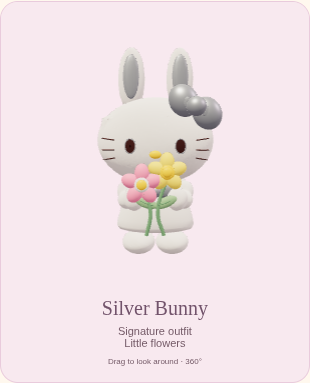
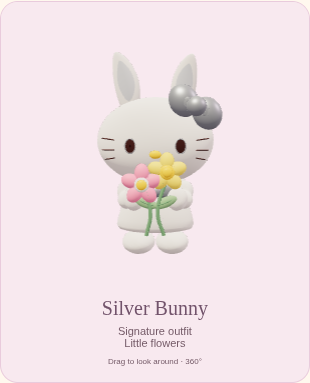
Record Silver Bunny ear review and verified Pages release

Changed region(s): [[0.3484, 0.1436, 0.4645, 0.2872], [0.5226, 0.1436, 0.6387, 0.2585]]

diff --git a/docs/production-plan.md b/docs/production-plan.md
@@ -583,7 +583,7 @@ with a source manifest, and every bundled source checksum was verified.
 No reset marker, quest, saved outfit or personal letter changed. Physical phone
 and Safari verification remain pending.
 
-## Silver Bunny ear correction · v2.0.2 (release verification)
+## Silver Bunny ear correction · v2.0.2 (published)
 
 The creator identified unnatural ears after the fleece correction. The previous
 ears were identical upright ellipsoids with separate thick metallic inserts.
@@ -605,5 +605,29 @@ topology so reduction cannot separate these surfaces.
 
 Front, profile, rear and dance Blender renders were visually inspected. The
 existing full plush browser check now also captures actual side/back rotation
-of Silver Bunny. Publication is pending the complete release gate. Physical
-phone and Mac/Safari review remain pending.
+of Silver Bunny. All 197 automated checks and all 16 browser suites passed
+before publication. Physical phone and Mac/Safari review remain pending.
+
+Local actual-input browser verification also passed all five editions’ dance,
+wink and happy restoration, shared clothes, adventure walking/reload, postcards,
+and tall-accessory baking. Silver Bunny was visually reviewed in front/profile/
+rear game views and a 320px touch/reduced-motion preview. Failed-download retry,
+late selection cancellation and the classic fallback passed with no page errors.
+
+Game candidate: `2e482f4ac2b7352900445724c7babe0c63a8eeae`.
+Release gate: [run 42099187591](https://github.com/hmlim123/hellokittygame/actions/runs/42099187591).
+The corrected source bundle was verified against all five project checksums;
+the website archive contains the actual corrected model and source manifest.
+Review images: `docs/nancy-silver-bunny-*.png` and
+`docs/silver-bunny-blender-*.png`. No physical-device result is inferred from
+these browser checks.
+
+Publication verified: all four browser groups and the Pages deployment succeeded
+in run **42099187591** for the game candidate above. The same immutable tested
+artifact was deployed. The deployment job’s fresh step results were checked after
+the summary page initially cached an unfinished deployment.
+
+Published: <https://hmlim123.github.io/hellokittygame/?v=gift-20&update=silver-bunny-26>.
+Both the individual Silver Bunny Blender project and the five-project bundle
+contain the corrected ears; the website archive matches the tested game revision.
+Nancy’s progress, letter and permanent gift-start marker remain unchanged.
